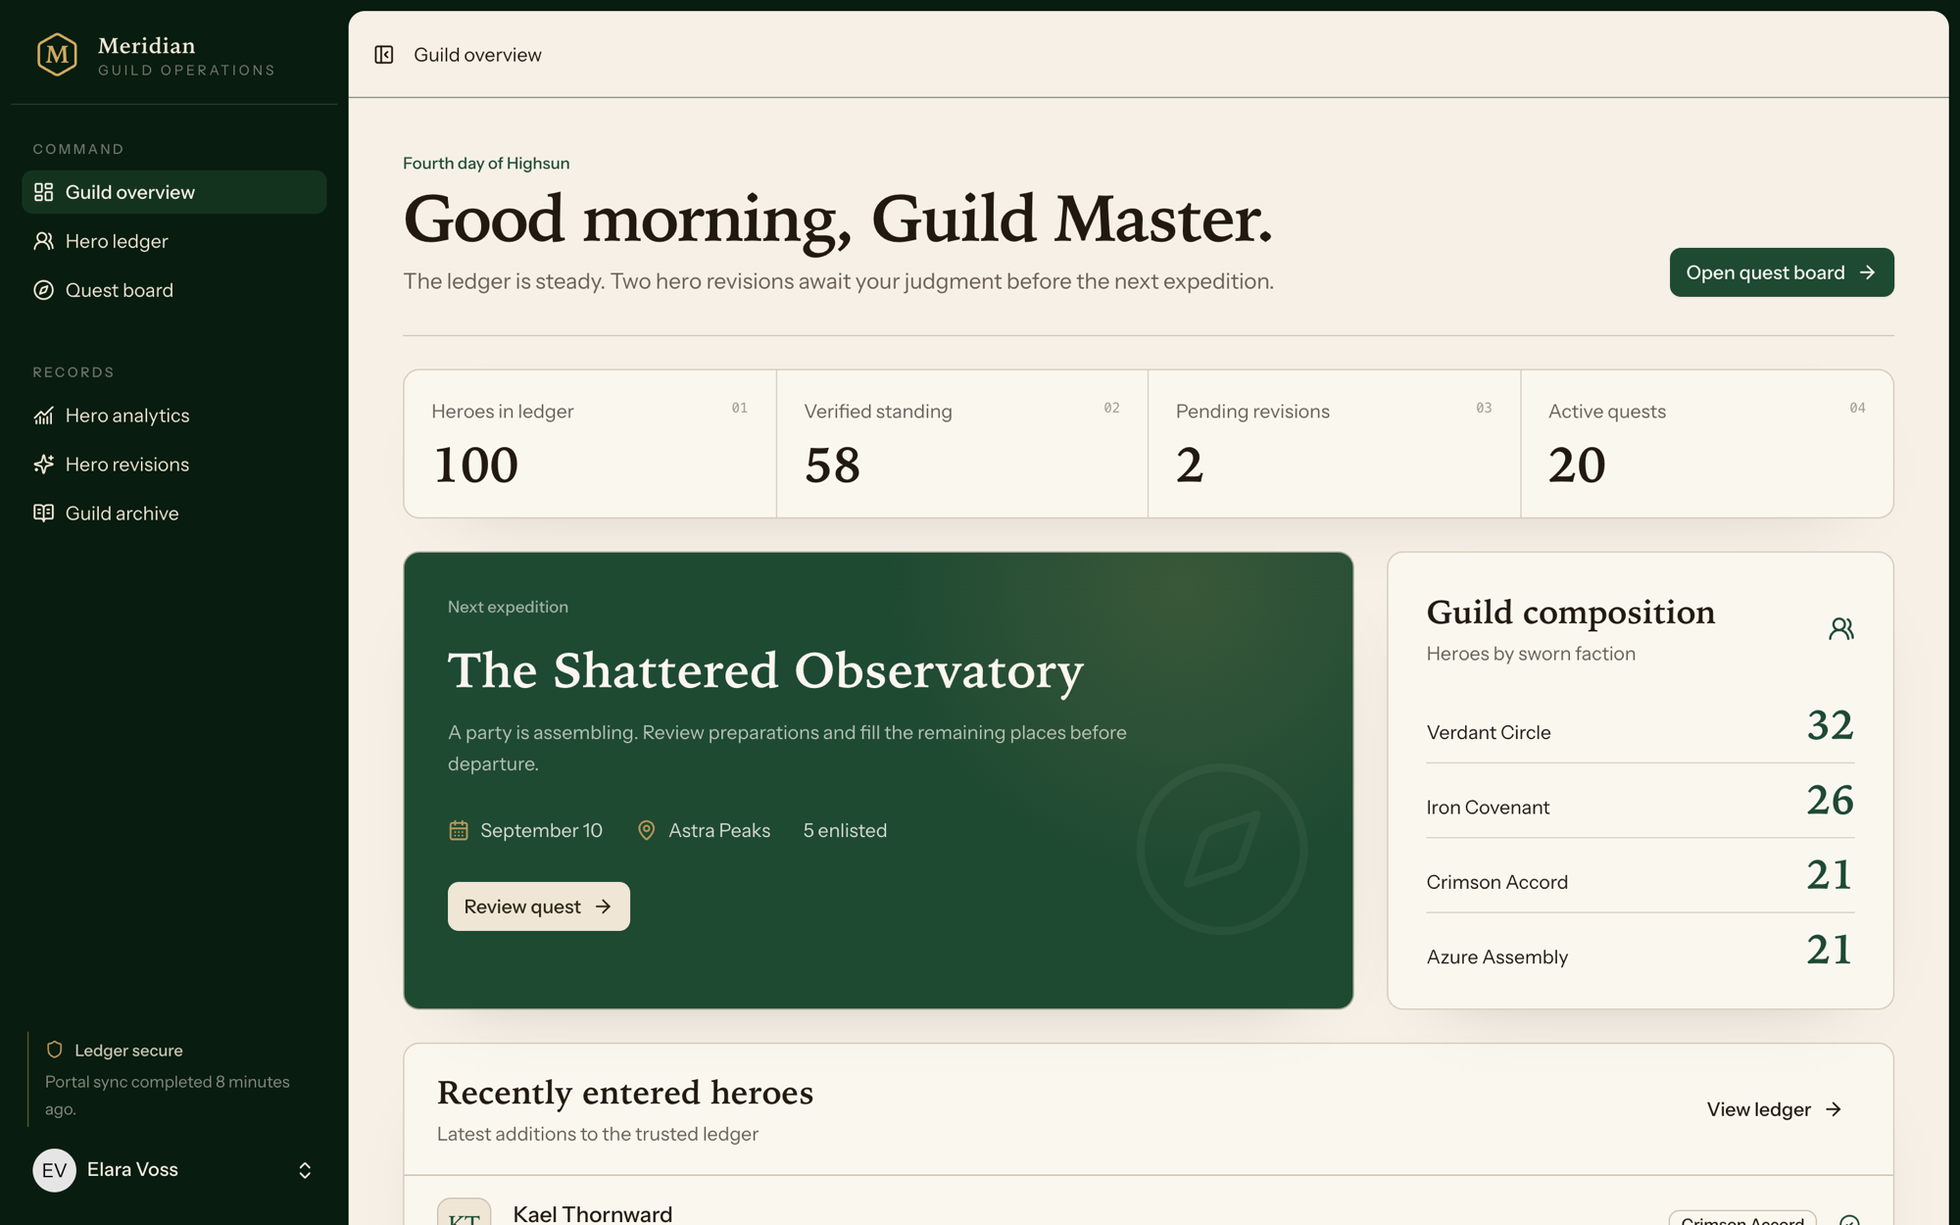
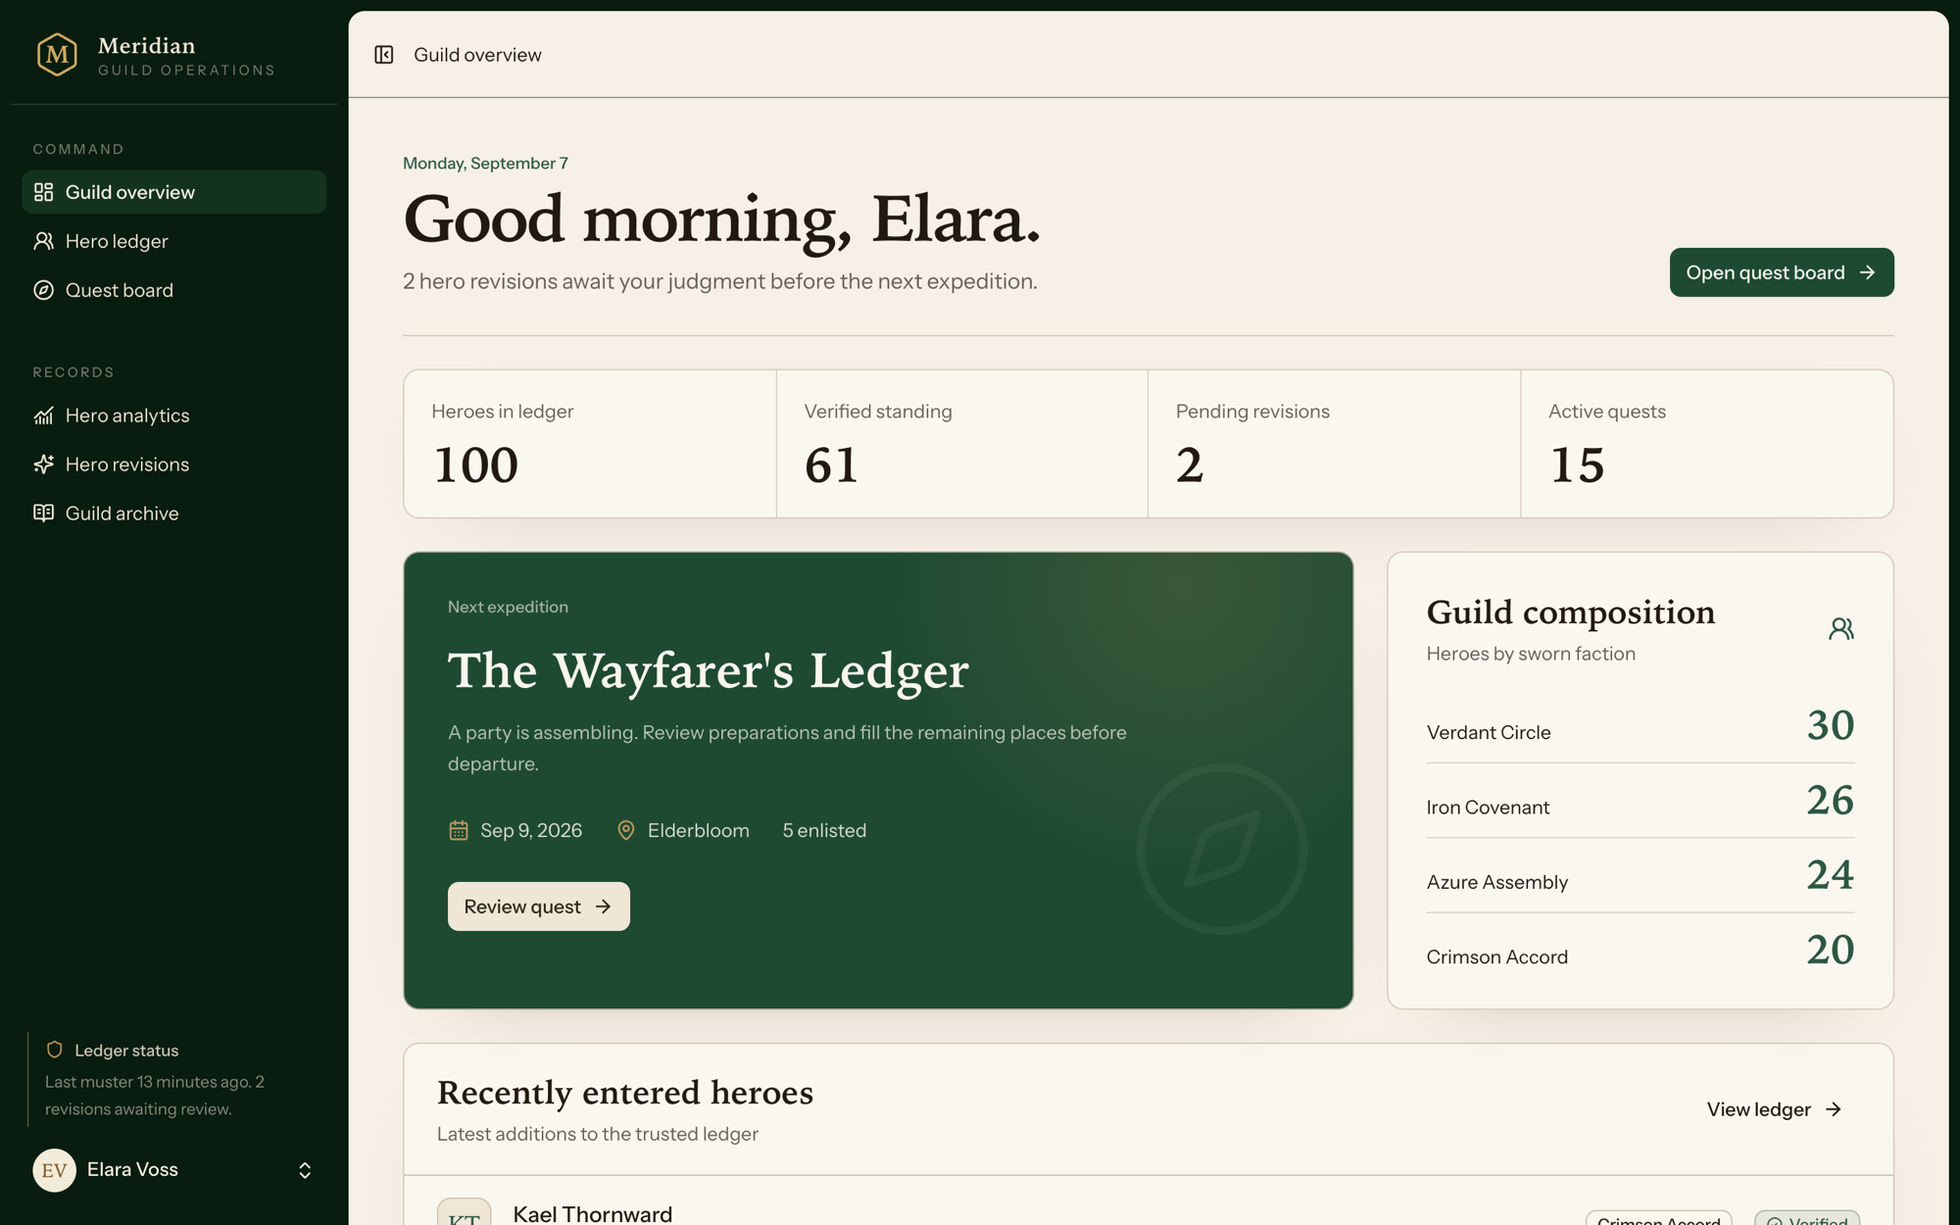
feat(ui): replace placeholder copy with live ledger data
The sidebar, dashboard, and quest page carried static strings dressed as status. They now show the last muster time and pending revision count from shared props, today's date, a greeting by hour and name, and the dead export button is gone.

diff --git a/resources/js/pages/dashboard.tsx b/resources/js/pages/dashboard.tsx
@@ -1,14 +1,15 @@
-import { Head, Link } from '@inertiajs/react';
+import { Head, Link, usePage } from '@inertiajs/react';
 import {
     ArrowRight,
     CalendarDays,
-    CheckCircle2,
     Compass,
     MapPin,
     UsersRound,
 } from 'lucide-react';
 import { Badge } from '@/components/ui/badge';
 import { Button } from '@/components/ui/button';
+import VerificationBadge from '@/components/verification-badge';
+import { formatDate, formatDayHeading, greetingFor } from '@/lib/format';
 
 type Hero = {
     id: number;
@@ -34,7 +35,7 @@ type Props = {
         pendingRevisions: number;
         activeQuests: number;
     };
-    nextQuest: Quest;
+    nextQuest: Quest | null;
     recentHeroes: Hero[];
     factions: { faction: string; total: number }[];
 };
@@ -45,6 +46,13 @@ export default function Dashboard({
     recentHeroes,
     factions,
 }: Props) {
+    const { auth } = usePage().props;
+    const firstName = auth.user.name.split(' ')[0];
+    const revisionLine =
+        metrics.pendingRevisions === 0
+            ? 'No revisions are waiting. The ledger is steady.'
+            : `${metrics.pendingRevisions} hero ${metrics.pendingRevisions === 1 ? 'revision awaits' : 'revisions await'} your judgment before the next expedition.`;
+
     return (
         <>
             <Head title="Guild overview" />
@@ -52,14 +60,13 @@ export default function Dashboard({
                 <header className="grid gap-5 border-b border-border/80 pb-7 md:grid-cols-[1fr_auto] md:items-end">
                     <div>
                         <p className="text-xs font-medium text-pine">
-                            Fourth day of Highsun
+                            {formatDayHeading(new Date())}
                         </p>
                         <h1 className="mt-2 max-w-3xl font-display text-4xl leading-[1.04] font-semibold tracking-[-0.025em] md:text-5xl">
-                            Good morning, Guild Master.
+                            {greetingFor()}, {firstName}.
                         </h1>
                         <p className="mt-2 max-w-2xl text-muted-foreground">
-                            The ledger is steady. Two hero revisions await your
-                            judgment before the next expedition.
+                            {revisionLine}
                         </p>
                     </div>
                     <Button asChild className="whitespace-nowrap">
@@ -79,9 +86,6 @@ export default function Dashboard({
                             key={label}
                             className={`relative border-border/70 p-5 ${index % 2 === 0 ? 'border-r' : ''} ${index < 2 ? 'border-b' : ''} ${index < 3 ? 'xl:border-r' : ''} xl:border-b-0`}
                         >
-                            <span className="absolute top-5 right-5 font-mono text-[10px] text-muted-foreground/60">
-                                0{index + 1}
-                            </span>
                             <p className="text-sm text-muted-foreground">
                                 {label}
                             </p>
@@ -92,55 +96,58 @@ export default function Dashboard({
                     ))}
                 </section>
                 <section className="grid gap-6 lg:grid-cols-[1.5fr_.8fr]">
-                    <div className="meridian-panel overflow-hidden bg-primary text-primary-foreground">
-                        <div className="relative min-h-72 p-6 md:p-8">
-                            <div className="absolute inset-0 [background-image:radial-gradient(circle_at_82%_8%,color-mix(in_oklab,var(--sidebar-primary)_70%,transparent)_0,transparent_34%)] opacity-25" />
-                            <Compass
-                                className="absolute right-6 bottom-5 size-36 text-primary-foreground/[0.045]"
-                                strokeWidth={1}
-                            />
-                            <div className="relative">
-                                <p className="text-xs font-medium text-primary-foreground/60">
-                                    Next expedition
-                                </p>
-                                <h2 className="mt-4 max-w-xl font-display text-3xl leading-tight font-semibold md:text-4xl">
-                                    {nextQuest.name}
-                                </h2>
-                                <p className="mt-3 max-w-lg text-sm leading-relaxed text-primary-foreground/70">
-                                    A party is assembling. Review preparations
-                                    and fill the remaining places before
-                                    departure.
-                                </p>
-                                <div className="mt-7 flex flex-wrap gap-x-6 gap-y-3 text-sm text-primary-foreground/85">
-                                    <span className="flex items-center gap-2">
-                                        <CalendarDays className="size-4 text-sidebar-primary" />
-                                        {new Date(
-                                            nextQuest.starts_at,
-                                        ).toLocaleDateString(undefined, {
-                                            month: 'long',
-                                            day: 'numeric',
-                                        })}
-                                    </span>
-                                    <span className="flex items-center gap-2">
-                                        <MapPin className="size-4 text-sidebar-primary" />
-                                        {nextQuest.location}
-                                    </span>
-                                    <span>
-                                        {nextQuest.enlistments_count} enlisted
-                                    </span>
+                    {nextQuest ? (
+                        <div className="meridian-panel overflow-hidden bg-primary text-primary-foreground">
+                            <div className="relative min-h-72 p-6 md:p-8">
+                                <div className="absolute inset-0 [background-image:radial-gradient(circle_at_82%_8%,color-mix(in_oklab,var(--sidebar-primary)_70%,transparent)_0,transparent_34%)] opacity-25" />
+                                <Compass
+                                    className="absolute right-6 bottom-5 size-36 text-primary-foreground/[0.045]"
+                                    strokeWidth={1}
+                                />
+                                <div className="relative">
+                                    <p className="text-xs font-medium text-primary-foreground/60">
+                                        Next expedition
+                                    </p>
+                                    <h2 className="mt-4 max-w-xl font-display text-3xl leading-tight font-semibold md:text-4xl">
+                                        {nextQuest.name}
+                                    </h2>
+                                    <p className="mt-3 max-w-lg text-sm leading-relaxed text-primary-foreground/70">
+                                        A party is assembling. Review
+                                        preparations and fill the remaining
+                                        places before departure.
+                                    </p>
+                                    <div className="mt-7 flex flex-wrap gap-x-6 gap-y-3 text-sm text-primary-foreground/85">
+                                        <span className="flex items-center gap-2">
+                                            <CalendarDays className="size-4 text-sidebar-primary" />
+                                            {formatDate(nextQuest.starts_at)}
+                                        </span>
+                                        <span className="flex items-center gap-2">
+                                            <MapPin className="size-4 text-sidebar-primary" />
+                                            {nextQuest.location}
+                                        </span>
+                                        <span>
+                                            {nextQuest.enlistments_count}{' '}
+                                            enlisted
+                                        </span>
+                                    </div>
+                                    <Button
+                                        asChild
+                                        variant="secondary"
+                                        className="mt-7"
+                                    >
+                                        <Link href={`/quests/${nextQuest.id}`}>
+                                            Review quest <ArrowRight />
+                                        </Link>
+                                    </Button>
                                 </div>
-                                <Button
-                                    asChild
-                                    variant="secondary"
-                                    className="mt-7"
-                                >
-                                    <Link href={`/quests/${nextQuest.id}`}>
-                                        Review quest <ArrowRight />
-                                    </Link>
-                                </Button>
                             </div>
                         </div>
-                    </div>
+                    ) : (
+                        <div className="meridian-panel p-6 text-muted-foreground md:p-8">
+                            No expedition is scheduled. Post a quest to assemble
+                            the next party.
+                        </div>
+                    )}
                     <div className="meridian-panel p-6 md:p-7">
                         <div className="flex items-center justify-between">
                             <div>
@@ -210,9 +217,9 @@ export default function Dashboard({
                                 >
                                     {hero.faction}
                                 </Badge>
-                                {hero.verification_status === 'verified' && (
-                                    <CheckCircle2 className="size-4 text-pine" />
-                                )}
+                                <VerificationBadge
+                                    status={hero.verification_status}
+                                />
                             </Link>
                         ))}
                     </div>

diff --git a/resources/js/pages/quests/show.tsx b/resources/js/pages/quests/show.tsx
@@ -12,6 +12,7 @@ import {
 import { Badge } from '@/components/ui/badge';
 import { Button } from '@/components/ui/button';
 import { Input } from '@/components/ui/input';
+import { formatDateTime, formatRelative } from '@/lib/format';
 type Hero = {
     id: number;
     hero_code: string;
@@ -23,7 +24,7 @@ type Hero = {
 type Enlistment = {
     id: number;
     status: string;
-    mustered_at?: string;
+    mustered_at?: string | null;
     hero: Hero;
 };
 type Quest = {
@@ -45,6 +46,11 @@ export default function QuestShow({ quest }: { quest: Quest }) {
         ? quest.requirements
         : [];
     const present = enlistments.filter((e) => e.status === 'present').length;
+    const lastMuster = enlistments
+        .map((e) => e.mustered_at)
+        .filter((value): value is string => Boolean(value))
+        .sort()
+        .at(-1);
 
     return (
         <>
@@ -71,15 +77,7 @@ export default function QuestShow({ quest }: { quest: Quest }) {
                         <div className="mt-6 flex flex-wrap gap-5 text-sm">
                             <span className="flex items-center gap-2">
                                 <CalendarDays className="size-4 text-brass" />
-                                {new Date(quest.starts_at).toLocaleString(
-                                    undefined,
-                                    {
-                                        month: 'long',
-                                        day: 'numeric',
-                                        hour: 'numeric',
-                                        minute: '2-digit',
-                                    },
-                                )}
+                                {formatDateTime(quest.starts_at)}
                             </span>
                             <span className="flex items-center gap-2">
                                 <MapPin className="size-4 text-brass" />
@@ -134,12 +132,20 @@ export default function QuestShow({ quest }: { quest: Quest }) {
                                             Present
                                         </span>
                                     ) : (
-                                        <Badge variant="outline">
+                                        <Badge
+                                            variant="outline"
+                                            className="capitalize"
+                                        >
                                             {e.status}
                                         </Badge>
                                     )}
                                 </Link>
                             ))}
+                            {enlistments.length === 0 && (
+                                <p className="p-5 text-sm text-muted-foreground">
+                                    No heroes have enlisted yet.
+                                </p>
+                            )}
                         </div>
                     </section>
                     <aside className="space-y-6">
@@ -217,7 +223,9 @@ export default function QuestShow({ quest }: { quest: Quest }) {
                             <div className="flex items-center gap-2 text-sm">
                                 <Clock3 className="size-4 text-brass-deep" />
                                 <span>
-                                    Live ledger refreshes after every muster.
+                                    {lastMuster
+                                        ? `Last muster ${formatRelative(lastMuster)}.`
+                                        : 'No musters recorded yet.'}
                                 </span>
                             </div>
                         </section>

diff --git a/resources/js/components/app-sidebar.tsx b/resources/js/components/app-sidebar.tsx
@@ -1,4 +1,4 @@
-import { Link } from '@inertiajs/react';
+import { Link, usePage } from '@inertiajs/react';
 import {
     ChartNoAxesCombined,
     BookOpenText,
@@ -20,6 +20,7 @@ import {
     SidebarMenuButton,
     SidebarMenuItem,
 } from '@/components/ui/sidebar';
+import { formatRelative } from '@/lib/format';
 import type { NavItem } from '@/types';
 
 const mainNavItems: NavItem[] = [
@@ -39,6 +40,9 @@ const recordItems: NavItem[] = [
 ];
 
 export function AppSidebar() {
+    const { ledger } = usePage().props;
+    const revisionCount = ledger?.pendingRevisions ?? 0;
+
     return (
         <Sidebar collapsible="icon" variant="inset">
             <SidebarHeader className="border-b border-sidebar-border/70 pb-3">
@@ -60,9 +64,16 @@ export function AppSidebar() {
                 <div className="mx-3 mt-auto border-l border-sidebar-primary/45 py-1 pl-3 text-xs leading-relaxed text-sidebar-foreground/55 group-data-[collapsible=icon]:hidden">
                     <div className="flex items-center gap-2 text-sidebar-foreground/85">
                         <Shield className="size-3.5 text-sidebar-primary" />
-                        <strong className="font-medium">Ledger secure</strong>
+                        <strong className="font-medium">Ledger status</strong>
                     </div>
-                    <p className="mt-1">Portal sync completed 8 minutes ago.</p>
+                    <p className="mt-1">
+                        {ledger?.lastMusterAt
+                            ? `Last muster ${formatRelative(ledger.lastMusterAt)}.`
+                            : 'No musters recorded yet.'}{' '}
+                        {revisionCount}{' '}
+                        {revisionCount === 1 ? 'revision' : 'revisions'}{' '}
+                        awaiting review.
+                    </p>
                 </div>
             </SidebarContent>
             <SidebarFooter>

diff --git a/resources/js/pages/archive/index.tsx b/resources/js/pages/archive/index.tsx
@@ -2,14 +2,11 @@ import { Head, Link } from '@inertiajs/react';
 import {
     Archive,
     ArrowRight,
-    BookOpenText,
     Compass,
-    Download,
     ScrollText,
     UsersRound,
 } from 'lucide-react';
 import { Badge } from '@/components/ui/badge';
-import { Button } from '@/components/ui/button';
 
 type RecordItem = {
     id: number;
@@ -103,24 +100,6 @@ export default function ArchiveIndex({
                         </div>
                     </div>
                     <aside className="space-y-5">
-                        <div className="meridian-panel p-5">
-                            <BookOpenText className="size-5 text-brass-deep" />
-                            <h2 className="mt-4 font-display text-2xl font-semibold">
-                                Ledger export
-                            </h2>
-                            <p className="mt-2 text-sm leading-relaxed text-muted-foreground">
-                                Prepare a portable copy of the guild's canonical
-                                records for safekeeping.
-                            </p>
-                            <Button
-                                className="mt-5 w-full"
-                                variant="outline"
-                                disabled
-                            >
-                                <Download />
-                                Export coming next
-                            </Button>
-                        </div>
                         <div className="meridian-panel p-5">
                             <Archive className="size-5 text-brass-deep" />
                             <h2 className="mt-4 font-display text-xl font-semibold">

diff --git a/resources/js/types/global.d.ts b/resources/js/types/global.d.ts
@@ -13,6 +13,10 @@ declare module '@inertiajs/core' {
             name: string;
             auth: Auth;
             sidebarOpen: boolean;
+            ledger: {
+                lastMusterAt: string | null;
+                pendingRevisions: number;
+            } | null;
             [key: string]: unknown;
         };
     }

diff --git a/app/Http/Middleware/HandleInertiaRequests.php b/app/Http/Middleware/HandleInertiaRequests.php
@@ -2,6 +2,8 @@
 
 namespace App\Http\Middleware;
 
+use App\Models\Enlistment;
+use App\Models\HeroRevision;
 use Illuminate\Http\Request;
 use Inertia\Middleware;
 
@@ -41,6 +43,10 @@ class HandleInertiaRequests extends Middleware
             'auth' => [
                 'user' => $request->user(),
             ],
+            'ledger' => fn () => $request->user() ? [
+                'lastMusterAt' => Enlistment::whereNotNull('mustered_at')->latest('mustered_at')->first()?->mustered_at,
+                'pendingRevisions' => HeroRevision::where('status', 'pending')->count(),
+            ] : null,
             'sidebarOpen' => ! $request->hasCookie('sidebar_state') || $request->cookie('sidebar_state') === 'true',
         ];
     }
